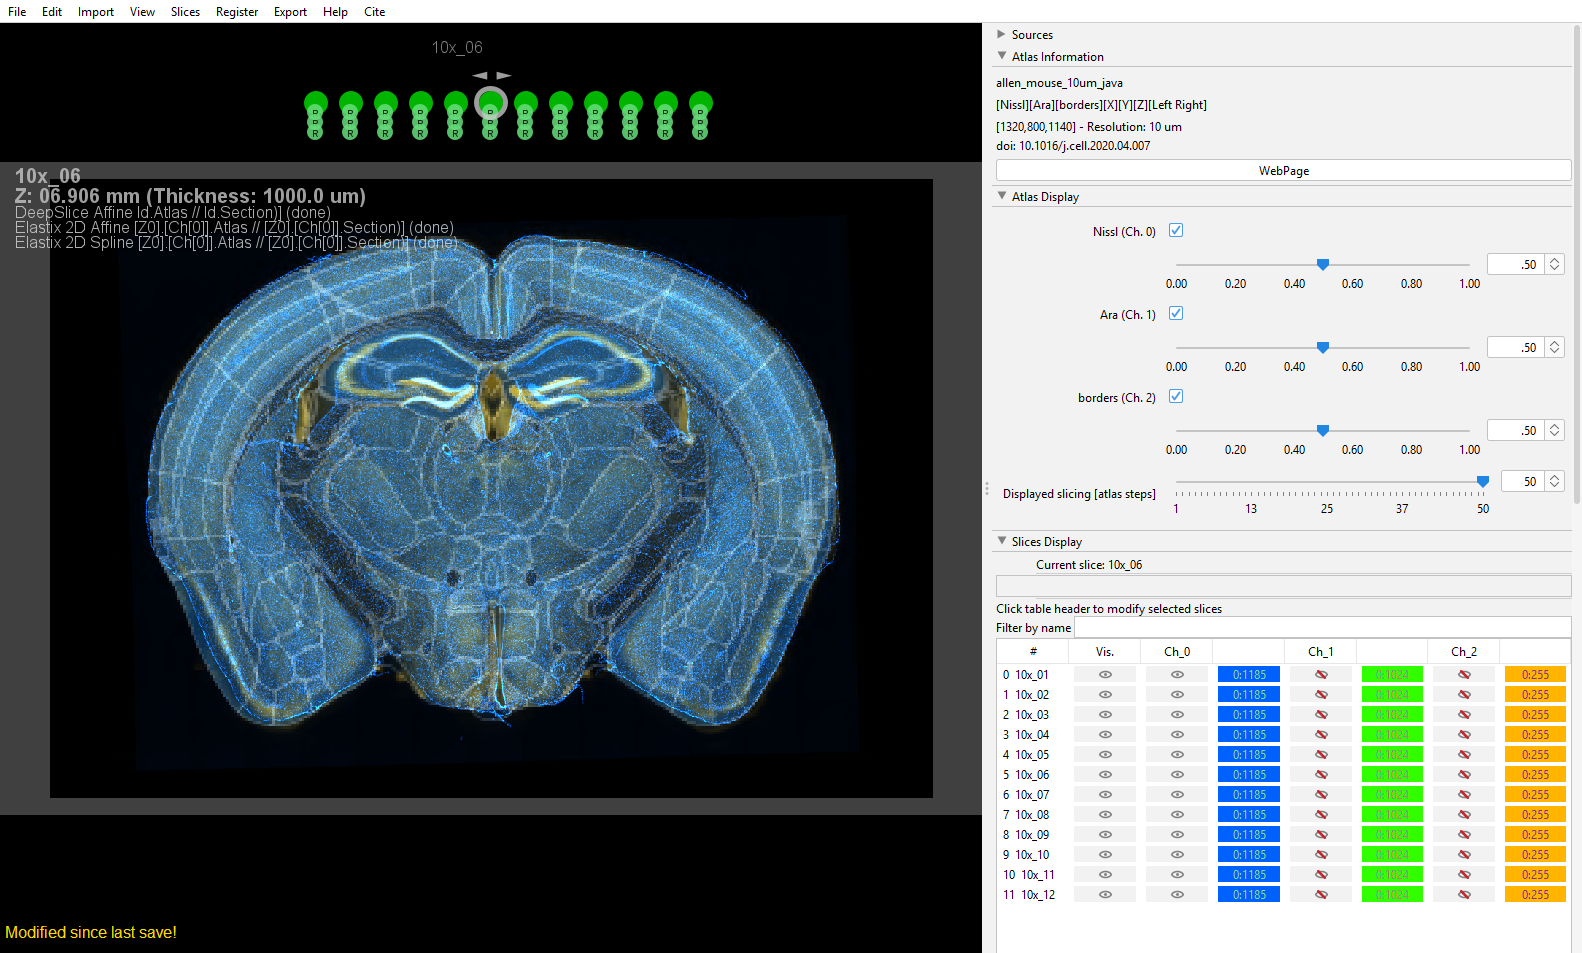
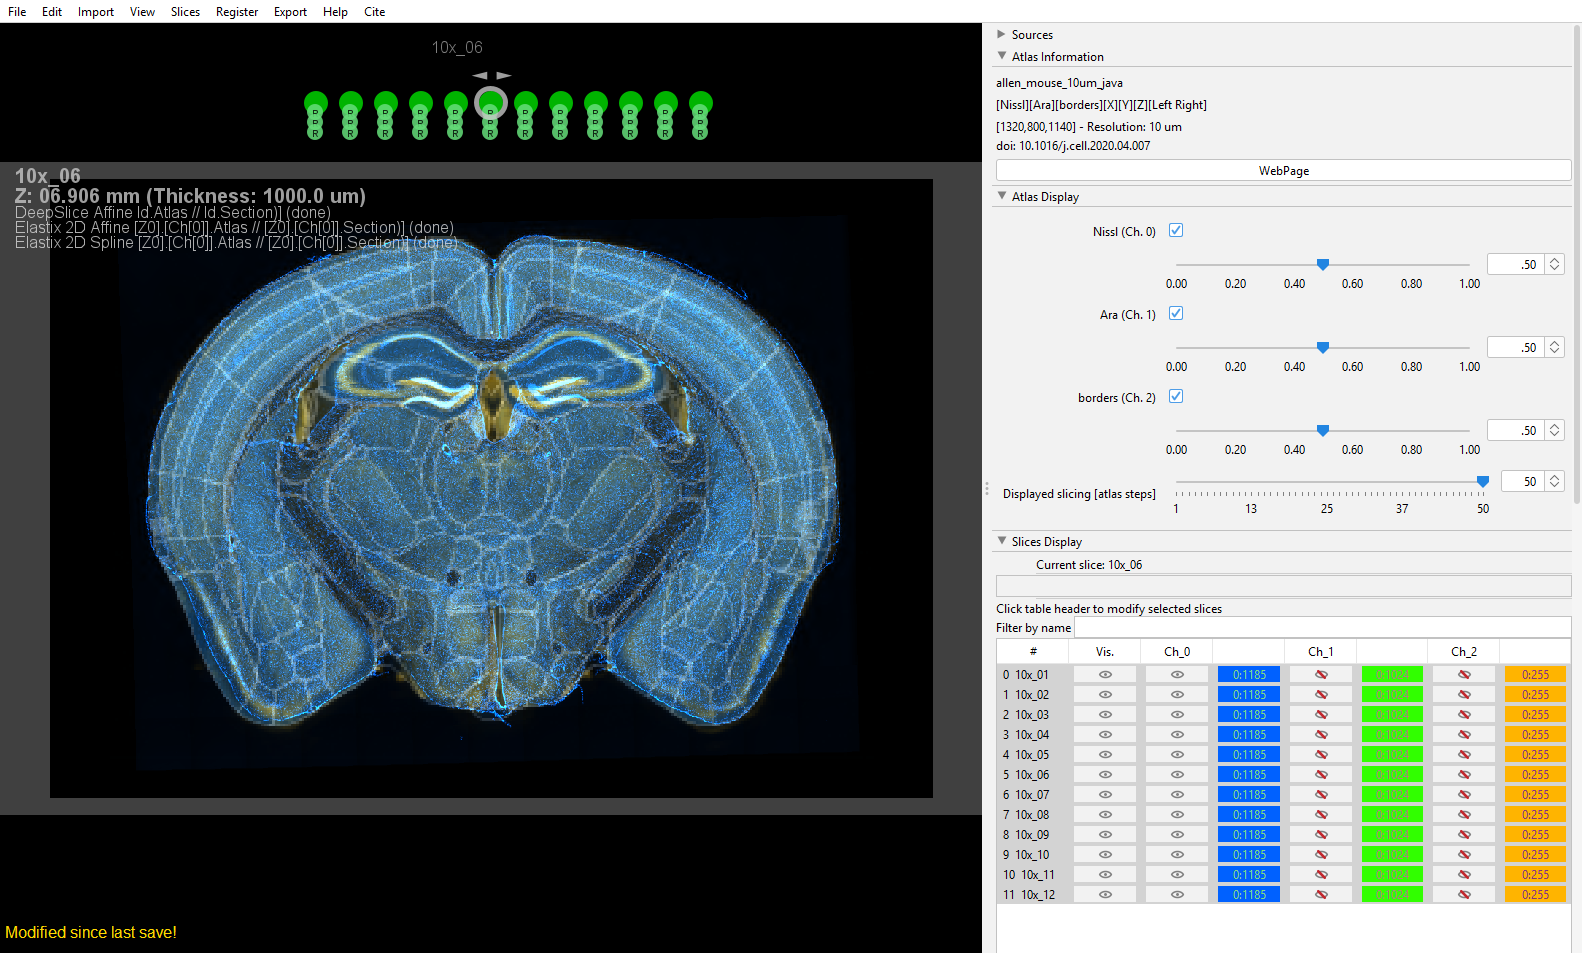
Illustrate the select and display page; show selected table rows
Selected slices, the slice table filtered and with its display settings, and
the Slices menu, produced by abba-doc-assets (GenerateSelectDisplaySlicesAssets).
All pictures regenerated: the selected rows of the slice table now show, as on
screen (they were painted as for printing, which leaves the selection out).

Changed region(s): [[0.6195, 0.6695, 1.0, 0.9738]]

diff --git a/docs/source/guide/select_display_slices.md b/docs/source/guide/select_display_slices.md
@@ -4,7 +4,7 @@
 
 Most ABBA commands act on the **selected slices**. Each slice is represented by a round handle below the atlas, which is green when the slice is selected and yellow when it is not.
 
-![Highlighted green handle of selected slices](/assets/img/fiji_selected_slice.png)
+![Slices 3 to 7 selected: their handles are green and joined by a line, the handles of the other slices are yellow](/assets/abba/guide/select_display_slices/selected_slices.png)
 
 There are two ways to select slices.
 
@@ -28,7 +28,7 @@ Here is a demonstration of adding slices with `shift + rectangle`, removing slic
 
 You can also select slices in the table of the `Slices Display` card:
 
-![Selecting slices in the table](/assets/gif/fiji_select_slices_table.gif)
+![The table of the Slices Display card, filtered by name with `10x_0`: the selected slices are the highlighted rows](/assets/abba/guide/select_display_slices/slices_table_filtered.png)
 
 The selection behaves as in a standard table (`shift` to select a range, `ctrl` to toggle the selection of a single slice). Type a part of a slice name in `Filter by name`, above the table, to show only the matching slices: with many slices, this is the quickest way to find and select some of them.
 
@@ -41,7 +41,7 @@ On macOS, use `cmd` instead of `ctrl`.
 
 {menuselection}`Slices --> Select Slices` and {menuselection}`Slices --> Deselect Slices` select or deselect slices by their index.
 
-<!-- TODO GIF phase: re-record the two selection GIFs with ABBA 0.24.1 (name filter, slices displayed by default). -->
+<!-- TODO GIF phase: re-record the rectangle selection GIF with ABBA 0.24.1 and the demo slices. -->
 
 ## Display slices
 
@@ -49,9 +49,7 @@ To register slices, you need to see them well: show the channels that matter for
 
 Slices are displayed with all their channels when they are imported. In the table of the `Slices Display` card, the header row acts on all the selected slices at once: toggle the visibility of each channel, and set its color and its minimum and maximum displayed values (pay attention to where you click in the column headers). Each row customizes the display of a single slice.
 
-![Slices display options](/assets/gif/fiji_slices_display_options.gif)
-
-<!-- TODO GIF phase: re-record with ABBA 0.24.1. -->
+![All slices selected, with only their channel 0 (DAPI) shown and its display range set to 0 - 1185: crossed eyes for the hidden channels, the range in the colored cells](/assets/abba/guide/select_display_slices/slices_table_display.png)
 
 {menuselection}`Slices --> Set Slices Display Range` sets the minimum and maximum displayed values of channels of all the selected slices at once.
 
@@ -66,7 +64,7 @@ Multi-series files, like VSI files, may contain unwanted images: slide labels, m
 
 To remove them, select them, then right-click in the viewer and choose `Remove Selected Slices`, or click {menuselection}`Slices --> Remove Slices`. Removing slices can be undone.
 
-![Removing slices](/assets/gif/fiji_remove_slices.gif)
+![The Slices menu, Remove Slices](/assets/abba/guide/select_display_slices/remove_slices_menu.png)
 
 ## Reorder channels
 
